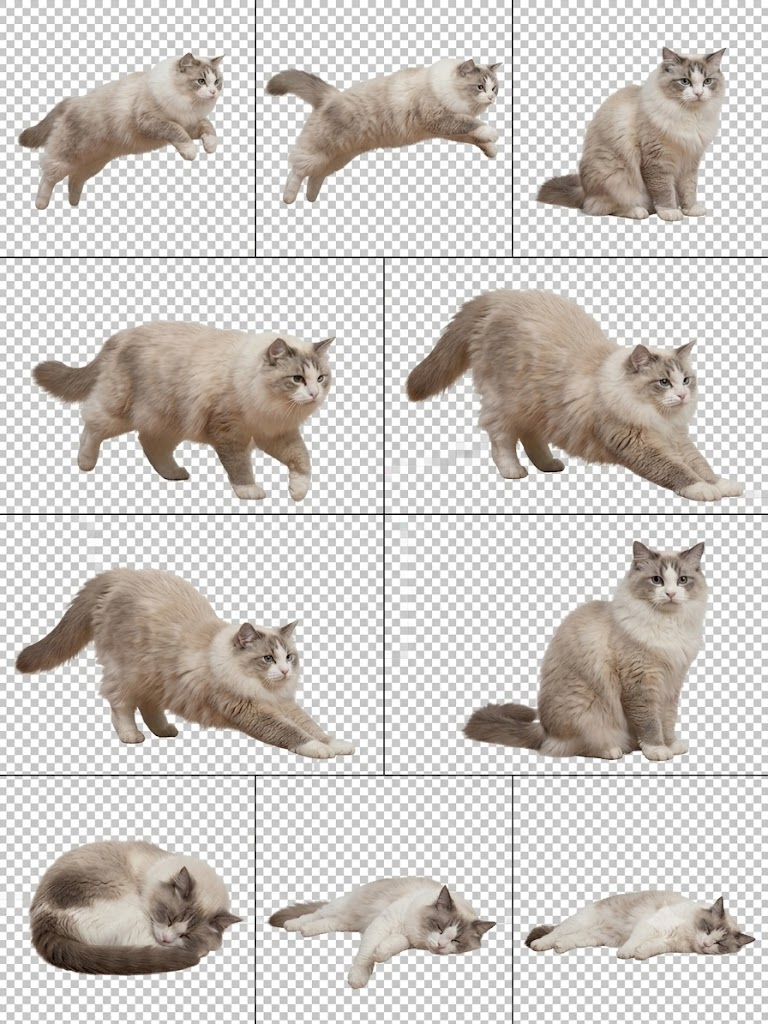
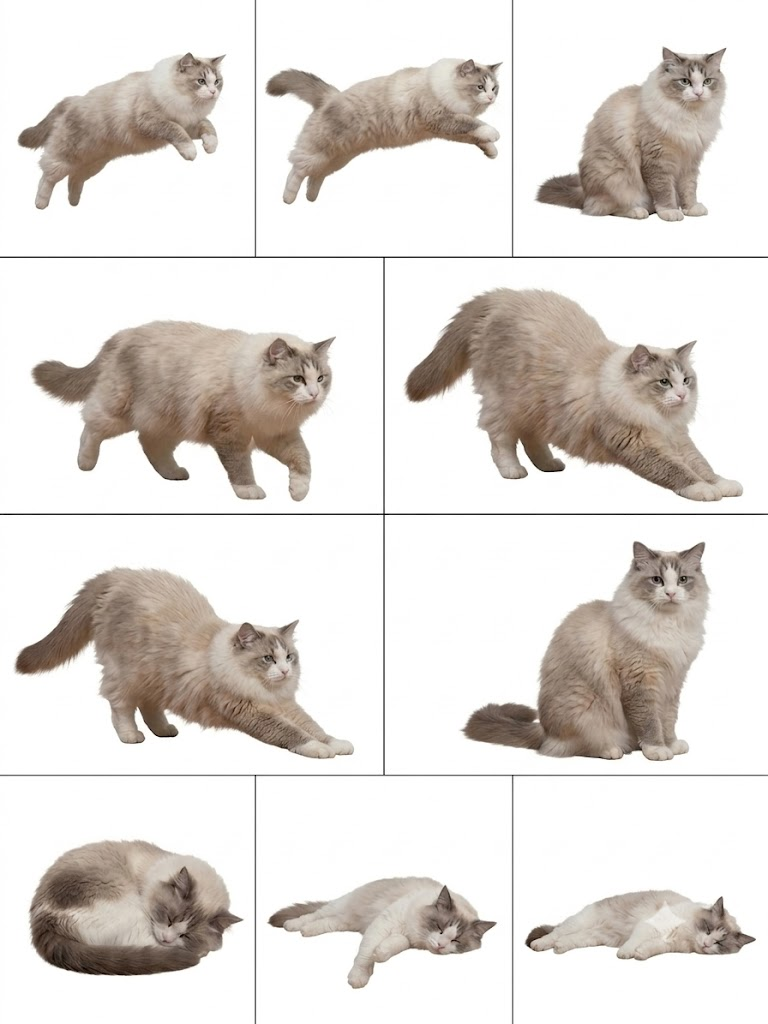
Rename skin frames to {skin}_{action}_{order} convention, add error pose
- All skin PNGs renamed to e.g. cowcat_run_01 / cowcat_sleep_01 /
  cowcat_error_01; idle detection now uses the "idle" keyword instead of
  the fragile "_09" number match
- New "error" pose: shown (cycled) when usage can't be fetched, replacing
  the gentle default run animation; sleep pose is now strictly 100%-only
  and shows a single static frame
- README: document the naming convention, fix stale sleep behavior text
- cowcat updated with clean background images

diff --git a/spritecat.py b/spritecat.py
@@ -6,12 +6,12 @@ Loads all *.png from a skin folder under skins/, removes white background
 (makes it transparent), resizes to the requested square canvas, and outputs
 premultiplied BGRA buffers for winalpha.LayeredCanvas.draw().
 
-Skin pack structure:
+Skin pack structure - {skin}_{action}_{order}.png, see _collect_pngs:
     skins/
-      bluecat/
-        01.png, 02.png, ...
-      blackcat/
-        cat_0.png, cat_1.png, ...
+      cowcat/
+        cowcat_run_01.png, cowcat_run_02.png, ...
+        cowcat_sleep_01.png, ...
+        cowcat_error_01.png, ...
 """
 from __future__ import annotations
 
@@ -83,30 +83,35 @@ def _pick_one(pngs: list[Path], marker: str) -> Path | None:
     return matches[0] if matches else None
 
 
-def _collect_pngs(skin_dir: Path) -> tuple[list[Path], list[Path], Path | None]:
-    """Collect run-cycle PNGs plus optional sleep/idle special-pose PNGs.
+def _collect_pngs(skin_dir: Path) -> tuple[list[Path], list[Path], Path | None, list[Path]]:
+    """Collect run-cycle PNGs plus optional sleep/idle/error special-pose PNGs.
 
-    Filenames containing "sleep" (any case, e.g. "cowcat_sleep_07.png") are
-    the sleep pose - one or more frames, cycled like a mini run-cycle so a
-    multi-frame sleep (e.g. a breathing loop) animates instead of freezing
-    on a single image. A filename containing "_09" is the dedicated
-    standby/idle pose (e.g. ragdollcat's ragdollcat_09.png). Both kinds are
-    excluded from the main run cycle. If a marker isn't present in the
-    skin, that special pose is simply empty/None and callers fall back to
-    their default (e.g. run_frames[0] as idle, no sleep pose at all).
+    Naming convention: {skin}_{action}_{order}.png, e.g. "cowcat_run_01.png",
+    "cowcat_sleep_01.png", "cowcat_error_01.png". The action word is matched
+    as a case-insensitive substring:
+      - "sleep" -> sleep pose (one or more frames, cycled like a mini run-cycle)
+      - "error" -> error pose (same, cycled)
+      - "idle"  -> the dedicated standby pose (single frame)
+    Anything not matching one of those is a run-cycle frame (so "run" isn't
+    a strictly required marker, but is the documented convention). If a
+    marker isn't present in the skin, that special pose is simply
+    empty/None and callers fall back to their default (e.g. run_frames[0]
+    as idle, plain default animation with no error pose).
     """
     all_pngs = sorted(skin_dir.glob('*.png'))
     if not all_pngs:
         raise FileNotFoundError(f'No PNG files found in {skin_dir}')
     sleep_paths = _pick_all(all_pngs, 'sleep')
-    idle_path = _pick_one(all_pngs, '_09')
-    special = set(sleep_paths) | ({idle_path} if idle_path else set())
+    error_paths = _pick_all(all_pngs, 'error')
+    non_special = [p for p in all_pngs if p not in sleep_paths and p not in error_paths]
+    idle_path = _pick_one(non_special, 'idle')
+    special = set(sleep_paths) | set(error_paths) | ({idle_path} if idle_path else set())
     frame_paths = [p for p in all_pngs if p not in special]
     if not frame_paths:
         # The special-pose file(s) were the only PNGs - use them as normal
         # frames too rather than leaving the skin with no run cycle.
-        return all_pngs, [], None
-    return frame_paths, sleep_paths, idle_path
+        return all_pngs, [], None, []
+    return frame_paths, sleep_paths, idle_path, error_paths
 
 
 def _remove_white_bg(img: Image.Image, threshold: int = WHITE_THRESHOLD) -> Image.Image:
@@ -164,23 +169,25 @@ def _load_one(path: Path, size: int, facing: str) -> bytes:
 
 
 def load_sprite_frames(size: int, facing: str = 'left', skin: str = DEFAULT_SKIN,
-                       ) -> tuple[bytes, list[bytes], list[bytes]]:
+                       ) -> tuple[bytes, list[bytes], list[bytes], list[bytes]]:
     """Load sprite PNG files from a skin folder.
 
     size:   canvas width/height in px
     facing: 'left' or 'right'
     skin:   skin name (subdirectory under skins/)
 
-    Returns (idle_frame, run_frames, sleep_frames). idle_frame is the
-    skin's dedicated "_09" standby pose if it has one, else run_frames[0].
-    sleep_frames is a (possibly multi-frame) cycle for the skin's "sleep"
-    marked PNGs, or an empty list if the skin has none.
+    Returns (idle_frame, run_frames, sleep_frames, error_frames). idle_frame
+    is the skin's dedicated "_09" standby pose if it has one, else
+    run_frames[0]. sleep_frames/error_frames are each a (possibly
+    multi-frame) cycle for the skin's "sleep"/"error" marked PNGs, or an
+    empty list if the skin has none.
     """
     skin_dir = _get_skin_dir(skin)
-    frame_paths, sleep_paths, idle_path = _collect_pngs(skin_dir)
+    frame_paths, sleep_paths, idle_path, error_paths = _collect_pngs(skin_dir)
 
     frames_bgra = [_load_one(p, size, facing) for p in frame_paths]
     sleep_bgra = [_load_one(p, size, facing) for p in sleep_paths]
+    error_bgra = [_load_one(p, size, facing) for p in error_paths]
     idle_bgra = _load_one(idle_path, size, facing) if idle_path else frames_bgra[0]
 
-    return idle_bgra, frames_bgra, sleep_bgra
+    return idle_bgra, frames_bgra, sleep_bgra, error_bgra

diff --git a/cat.py b/cat.py
@@ -109,7 +109,6 @@ SPEED_TABLE = [
     (95, 80),     # sprint
     (100, None),  # exhausted: cat freezes
 ]
-SLEEP_INTERVAL = 700  # ms per sleep-cycle frame (only matters if a skin has 2+)
 # ---------------------------------------------------------------------------
 
 
@@ -235,11 +234,12 @@ class ClaudeCat:
         self._save_config()
 
     def _render_cat(self) -> None:
-        self.idle_buffer, self.frame_buffers, self.sleep_frames = spritecat.load_sprite_frames(
+        (self.idle_buffer, self.frame_buffers, self.sleep_frames,
+         self.error_frames) = spritecat.load_sprite_frames(
             self.cat_size.get(),
             facing='right' if self.facing_right.get() else 'left',
             skin=self.current_skin.get())
-        self._sleep_frame_idx = 0
+        self._error_frame_idx = 0
 
     def _apply_look(self) -> None:
         """Re-render after a size/direction change from the menu."""
@@ -390,14 +390,21 @@ class ClaudeCat:
     # ---- Animation loop ---------------------------------------------------
 
     def _should_sleep(self) -> bool:
-        """Sleep pose wins over the run cycle when the skin has one and
-        either Claude isn't reachable (no usage data / error) or the
-        session quota is fully used up."""
+        """Sleep pose wins over the run cycle when the skin has one and the
+        session quota is fully used up (100%). Errors / no data yet still
+        play the normal gentle-default animation - sleep means 'quota is
+        exhausted', not 'can't currently tell what the quota is'."""
         if not self.sleep_frames:
             return False
-        error = self._effective_error()
         usage = self._effective_usage()
-        return bool(error) or usage is None or usage >= 100
+        return usage is not None and usage >= 100
+
+    def _should_show_error_pose(self) -> bool:
+        """Error pose (if the skin has one) replaces the gentle default
+        animation when there's an error, or no usage data has come in yet."""
+        if not self.error_frames:
+            return False
+        return bool(self._effective_error()) or self._effective_usage() is None
 
     def _frame_interval(self) -> int | None:
         """Map current usage % to a frame interval (ms), or None if frozen."""
@@ -413,9 +420,15 @@ class ClaudeCat:
     def _animate(self) -> None:
         self._update_badge()
         if self._should_sleep():
-            self._sleep_frame_idx = (self._sleep_frame_idx + 1) % len(self.sleep_frames)
-            self.canvas.draw(self.sleep_frames[self._sleep_frame_idx])
-            self.root.after(SLEEP_INTERVAL, self._animate)
+            # Static, not animated: one sleep frame (the first, by filename
+            # sort - e.g. cowcat_sleep_07.png) is enough.
+            self.canvas.draw(self.sleep_frames[0])
+            self.root.after(500, self._animate)
+            return
+        if self._should_show_error_pose():
+            self._error_frame_idx = (self._error_frame_idx + 1) % len(self.error_frames)
+            self.canvas.draw(self.error_frames[self._error_frame_idx])
+            self.root.after(500, self._animate)
             return
         interval = self._frame_interval()
         if interval is None:

diff --git a/README.md b/README.md
@@ -29,8 +29,9 @@ python cat.py
   `%LOCALAPPDATA%\ClaudeCat\config.json`；位置在右鍵 Quit 正常結束時儲存
 - 用量 0-25% 散步 → 25-50% 小跑 → 50-75% 快跑 → 75-95% 狂奔 →
   >95% 靜止（`_09` 待命姿勢）；API 無法連線時以預設速度播放動畫
-- 若該皮膚有睡覺圖片（檔名含 `sleep`）：Claude 沒在執行（抓不到用量）
-  或 session 用滿 100% 時，貓會改顯示睡覺姿勢（多張則慢速循環）
+- 若該皮膚有睡覺圖片（檔名含 `sleep`）：session 用滿 100% 時顯示睡覺姿勢
+- 若該皮膚有錯誤圖片（檔名含 `error`）：抓不到用量或發生錯誤時
+  改顯示錯誤姿勢（多張會循環）；沒有的話維持預設速度播放跑步動畫
 
 ## 疑難排解：徽章顯示 `!`
 
@@ -65,8 +66,15 @@ python cat.py
 精靈圖設定在 `spritecat.py`：
 - `WHITE_THRESHOLD`：白色背景去除閾值（純白背景圖才適用；棋盤格/非白色
   背景的圖需自行先去背存成乾淨的白底或透明 PNG 再放進 skin 資料夾）
-- 檔名含 `sleep` 的圖片視為睡覺姿勢（可多幀循環），含 `_09` 的視為待命姿勢，
-  兩者都會從跑步循環中排除（見 `_collect_pngs`）
+- 檔名慣例：`{skin}_{動作}_{順序}.png`，例如 `cowcat_run_01.png`、
+  `cowcat_sleep_01.png`、`cowcat_error_01.png`。動作關鍵字（不分大小寫，
+  比對子字串）：
+  - `sleep` → 睡覺姿勢（session 用滿 100% 時顯示，靜態顯示第一張不循環）
+  - `error` → 錯誤姿勢（抓不到用量或發生錯誤時取代預設動畫，多幀會循環）
+  - `idle` → 待命姿勢（>95% 尚未到 100% 的凍結狀態）
+  - 其餘（含 `run`）都算跑步循環幀
+  三種特殊姿勢都會從跑步循環中排除，沒有對應檔案時該姿勢就是空的，
+  自動退回預設行為（見 `_collect_pngs`）
 
 **輪詢間隔勿低於 180 秒**——該端點限流極凶，且需正確 claude-code User-Agent。
 
@@ -81,8 +89,8 @@ ClaudeCat.exe 所在資料夾\
 ├── ClaudeCat.exe
 └── skins\
     └── 新皮膚名稱\
-        ├── 01.png
-        └── 02.png ...
+        ├── 新皮膚名稱_run_01.png
+        └── 新皮膚名稱_run_02.png ...
 ```
 外部 `skins\` 資料夾優先於打包時內建的皮膚（同名時外部覆蓋）。
 